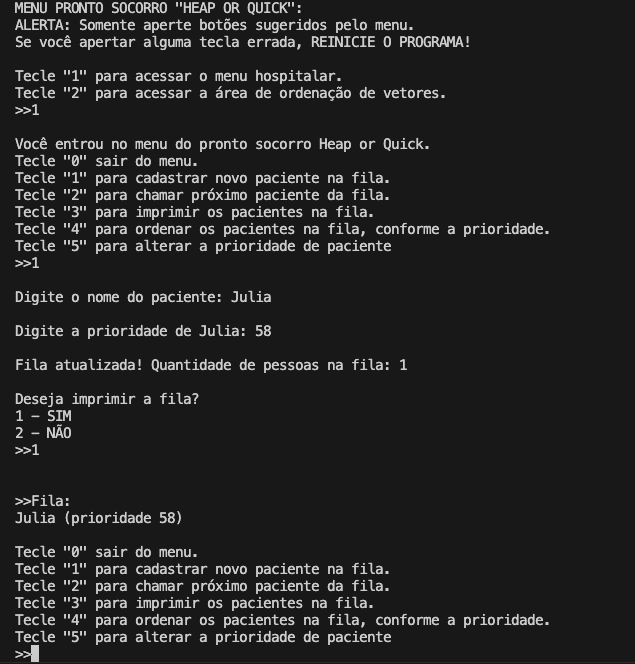
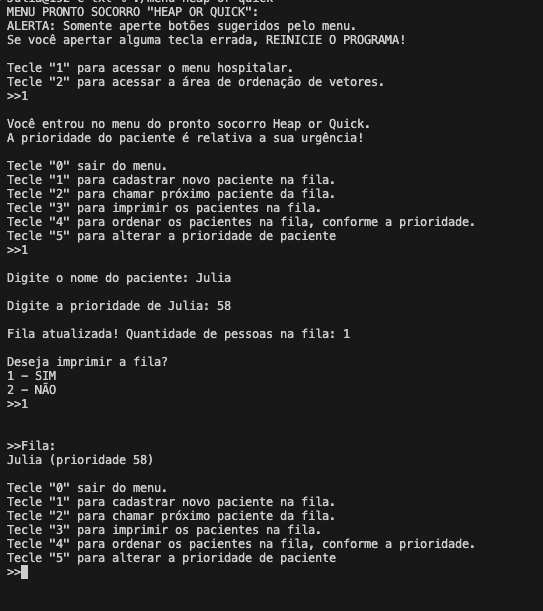
min-heap

Changed region(s): [[0.0, 0.0, 0.884, 0.5597], [0.0, 0.7152, 0.884, 1.0], [0.0, 0.5908, 0.3241, 0.6841]]

diff --git a/docs/relatorio.html b/docs/relatorio.html
@@ -68,62 +68,76 @@ Funções já implementadas, vistas na disciplina:
 Observação: a implementação dessas funções foi inicialmente pensada e adaptada para um vetor de 
 elementos struct paciente. 
 
- 
+Segue rascunhos de como pensamos no projeto:
+-<u>Funcionamento da fila:</u> Conforme chega pacientes no pronto socorro, a enfermeira os 
+  cadastra e determina a prioridade do paciente.
+  Quão maior a prioridade, mais doente está o paciente.
+
+<img src="imgs/desenho2.jpg" alt="Função aleat" width="400">
+
+-<u>Pensamentos inciais:</u> Como faremos o nosso heap?
+Percebemos, com o conteúdo das aulas que estruturar nosso heap em formato de max-heap,
+ordenaria nosso vetor em ordem crescente e priorizaria os menos doentes.
+
+-<u>MinHeapfy e HeapSort:</u>
+<img src="imgs/desenho1.jpg" alt="Função aleat" width="400">
 
 -<u>InsereHeap</u> 
 
 A função insere e sobe na árvore o último elemento do vetor na posição correta de 
-acordo com a estrutura de max-heap. 
+acordo com a estrutura de min-heap. 
 
-Enquanto v[i/2].prioridade &lt; v[i].prioridade, os dois elementos são trocados (pela 
+Enquanto v[i/2].prioridade > v[i].prioridade, os dois elementos são trocados (pela 
 função troca_pacientes) e o índice utilizado sobe na árvore (i = i/2). 
 
 Dessa forma, vamos subindo o elemento até a posição correta conforme a estrutura.
   
 
--<u>Heapfy</u>: 
+-<u>MinHeapfy</u>: 
 
- Constrói a estrutura de heap (max-heap) a partir de um vetor desordenado. 
+Constrói a estrutura de heap (min-heap) a partir de um vetor desordenado. 
 
- Função composta de um laço for que vai do índice 2 até o índice “tam” (último índice 
+Função composta de um laço for que vai do índice 2 até o índice “tam” (último índice 
 da fila) inserindo (com a funcao InsereHeap) os elementos do heap, de maneira que o vetor 
 seja construindo obedecendo a estrutura desejada. 
 
 -<u>ImprimeHeap</u>: 
 
- Percorre todos os pacientes do vetor e imprime o nome e a prioridade: 
+Percorre todos os pacientes do vetor e imprime o nome e a prioridade: 
 
- ex: João (Prioridade 10) 
+ex: João (Prioridade 10) 
 
 -<u>ChecaHeap</u>: 
 
- Analisa um vetor e verifica por laço e comparações se o vetor obedece o 
-comportamento de um max-heap. 
+Analisa um vetor e verifica por laço e comparações se o vetor obedece o 
+comportamento de um min-heap. 
 
- Retorna 0, em caso negativo e 1 em casos positivos. 
+Retorna 0, em caso negativo e 1 em casos positivos. 
 
 -<u>SacodeHeap</u> 
 
- O funcionamento dessa função baseia-se na comparação de cada nó da árvore 
-(v[i/2]) com o maior de v[i] e v[i+1], já que v[i/2], no max heap, precisa ser maior que esses 
-dois. Dessa forma, trocamos quando v[i]&gt;v[i/2] e vamos multiplicando i*=2 para que cubra 
-todos os nós da árvore heap. 
+O funcionamento dessa função baseia-se na comparação de cada nó da árvore (v[i/2]) 
+com o menor entre v[i] e v[i+1], já que em um min-heap v[i/2] deve ser menor ou igual a ambos.
 
- A ideia é "sacudir” a árvore até que o elemento caia na sua posição correta. 
+Dessa forma, quando v[i/2].prioridade > v[i].prioridade, os dois elementos são trocados 
+(o elemento “desce” na árvore), e o índice é multiplicado por 2 (i *= 2) para continuar o 
+processo nos níveis inferiores.
+
+A ideia é “sacudir” a árvore até que o elemento caia na posição correta, restaurando a propriedade de min-heap.
 
 -<u>HeapSort</u>:
 
-Primeiro aplicamos Heapfy para montar o max-heap. 
+Primeiro aplicamos MinHeapfy para montar o min-heap. 
 
-Depois, o maior elemento (no max-heap sempre fica em v[1]) é trocado com o 
-último, para parametro da funcao SacodeHeap, diminuimos o tamanho do nosso vetor. 
-Chamamos SacodeHeap para restaurar o max-heap após a troca. 
+Depois, o menor elemento (no min-heap sempre fica em v[1]) é trocado com o 
+último elemento do vetor. Como parametro da funcao SacodeHeap, diminuimos o tamanho do nosso vetor. 
+Chamamos SacodeHeap para restaurar o min-heap após a troca. 
 
-O processo se repete até o vetor ficar ordenado. 
+O processo se repete até o vetor ficar ordenado em ordem decrescente.
 
- 
 
-Também para a função aleat, responsável por gerar números aleatórios em um certo 
+-<u>Aleat</u>:
+Para a função aleat, responsável por gerar números aleatórios em um certo 
 trabalho, nos inspiramos na disciplina de Programação 1 que no primeiro trabalho tivemos 
 que dominá-la. 
 
@@ -234,26 +248,30 @@ Para finalizar a estrutura do heap implementamos as funções:
 
 - <u>InicHeap</u>: 
 
- Aqui damos início ao vetor que vai determinar a nossa fila, então percorremos do 
+Aqui damos início ao vetor que vai determinar a nossa fila, então percorremos do 
 índice 1 até o índice “tam” o vetor, atribuindo uma string e uma prioridade (ambas vazias) 
 para cada elemento. 
 
 -<u>RemoveHeap</u>: 
 
- Primeiro verificamos se a nossa fila está vazia, porque se sim não há o que remover. 
+Primeiro verificamos se a nossa fila está vazia, porque se sim não há o que remover. 
 
  Como a ideia é que a enfermeira chefe remova o primeiro paciente na fila de 
 prioridade - para ser atendido- colocamos o primeiro paciente na última posição do vetor, 
 mas em seguida subtraímos 1 do tamanho da fila. Desse modo, o paciente foi colocado no 
 fim da fila e com a diminuição de tamanho foi descartado do vetor. 
 
- Também, caso a fila não tenha ficado vazia com a saída do paciente, chamamos 
+Ressaltando que, nosso projeto foi feito com o intuito de que
++prioridade, +doente. 
+Então a enfermeira, quando chamar o paciente e utilizar RemoveHeap, chamará o paciente mais doente (de maior prioridade.)
+
+Também, caso a fila não tenha ficado vazia com a saída do paciente, chamamos 
 SacodeHeap para reajustar o novo primeiro elemento da fila. 
 
 -<u>AlteraHeap</u>: 
 
  
- Essa foi a função que mais tivemos dificuldades para implementar, o intuito dela é 
+Essa foi a função que mais tivemos dificuldades para implementar, o intuito dela é 
 alterar a prioridade de um paciente. 
 
 Como acharíamos o paciente que a enfermeira quer alterar? 
@@ -302,12 +320,6 @@ implementadas juntas.
 <img src="imgs/img15.png" alt="menu" width="300">
 Cabeçalho menu.c
 
-
-Nesse dia percebemos um detalhe: nosso Heapsort não estava adequado para a fila de 
-pacientes. Ele ordenava em ordem crescente, ou seja os pacientes de menor prioridade 
-ficavam no início, arrumamos então nosso HeapSort para ordenar em ordem crescente 
-(mas ainda continuamos em dúvida e decidimos tirar na próxima aula com o professor.)
-
 Aqui também criamos a função InserirPaciente. 
 
 -<u>InserirPaciente</u>: 
@@ -322,8 +334,6 @@ InsereHeap - para manter o paciente em sua ordem correta conforme max-heap.
 
 <strong><span style="color: #e75480;">01/11</span></strong> – Revisão geral e início do site 
 
- 
-
 Revisamos o código e o funcionamento do menu, resolvendo pequenos problemas internos.  
 
 Percebemos que, por exemplo, a cada inserção de um novo paciente por mais que a fila 
@@ -337,11 +347,9 @@ pacientes com o HeapSort:
 <img src="imgs/img16.png" alt="inserepaciente" width="400">
 <img src="imgs/img17.png" alt="inserepaciente" width="400">
 
- 
 
 Também começamos a montar o site do trabalho, adicionando a primeira parte do relatório. 
 
- 
 
 <strong><span style="color: #e75480;">03/11</span></strong> – Correção da contagem de comparações 
 
@@ -385,29 +393,7 @@ vetores.
 
 <strong><span style="color: #e75480;">05/11</span></strong> – Revisão final e testes
 
-Realizamos os últimos ajustes no código com base em dúvidas que tiramos com o 
-professor. 
-
-1. Ajustamos nosso Heap para min-heap, visto que foi a melhor solução que encontramos para ordenar o vetor em maneira decrescente:
-Pacientes com maior prioridade ficam no início.
-Funções que alteramos: 
-
--<u>SacodeHeap</u>: para que a árvore seja sacudida de forma que construa min-heap alteramos o sinal de igualdade em:
-    "if (v[i].prioridade > v[i+1].prioridade)
-    ...
-    if "(v[i/2].prioridade <= v[i].prioridade)"
-
-
--<u>InsereHeap</u>: para que a função insira na árvore o último elemento do vetor na posição correta de 
-acordo com a estrutura de min-heap, alteramos o sinal de igualdade em:
-    "while((i > 1) && (v[i/2].prioridade > v[i].prioridade))"
-
--<u>ChecaHeap</u>: para verificar se é min-heap.
-    invertemos o sinal de igualdade em: 
-    "if (v[i].prioridade > v[i/2].prioridade)"
-
-Observação: não alteramos o restante das funções do max-heap, consideramos que apenas essas 3 alteram a estrutura do heap. 
-Então, seguimos a mesma lógica executada anteriromente.
+Confirmamos com o professor que é possível usar min-heap.
 
 2. Também criamos um arquivo makefile para facilitar na compilação
 

diff --git a/docs/c-txt/heap.c b/docs/c-txt/heap.c
@@ -3,7 +3,8 @@
 #include <string.h>
 #include "heap.h"
 
-// Critério: menor 'prioridade' = maior urgência (heap de mínimos).
+/*Critério: Min-Heap, para assim ordenarmos de ordem decrescente. 
+Maior prioridade, maior urgência para o paciente.*/
 
 long long comparacoes = 0;
 long long trocas = 0;
@@ -18,7 +19,7 @@ void troca_pacientes(struct paciente *paciente1, struct paciente *paciente2)
     *paciente2 = aux;
 }
 
-//Zera nomes e prioridades de v[1..tam].
+//Inicia fila de prioridade.
 void InicHeap(int tam, struct paciente v[]) 
 {
     for (int i = 1; i <= tam; i++) 
@@ -44,7 +45,7 @@ void InsereHeap(int tam, struct paciente v[])
 }
 
 //Constrói um min-heap em v[1..tam] por inserções sucessivas.
-void Heapfy (int tam, struct paciente v[]) 
+void MinHeapfy (int tam, struct paciente v[]) 
 {
     int i;
 
@@ -76,7 +77,7 @@ void RemoveHeap(int *tam, struct paciente v[])
         return; 
 
     if (ChecaHeap(*tam, v) == 0)
-        Heapfy(*tam, v);
+        MinHeapfy(*tam, v);
 }
 
 //Lista os pacientes em ordem de array.
@@ -113,12 +114,12 @@ void SacodeHeap(int tam, struct paciente v[])
     }
 }
 
-//Ordena v[1..tam] em ordem crescente de 'prioridade' (menores primeiro).
+//Ordena v[1..tam] em ordem decrescente de 'prioridade' (maiores primeiro).
 void HeapSort(int tam, struct paciente v[]) 
 {
     int i;
 
-    Heapfy(tam, v);
+    MinHeapfy(tam, v);
     for (i = tam; i > 1; i--)
     {
         troca_pacientes(&v[i], &v[1]);

diff --git a/docs/c-txt/menu.c b/docs/c-txt/menu.c
@@ -259,6 +259,8 @@ int main()
     if(caminho == 1)
     {
         printf("Você entrou no menu do pronto socorro Heap or Quick.\n");
+        printf("A prioridade do paciente é relativa a sua urgência!\n");
+        printf("\n");
 
         while (saida == 0)
         {
